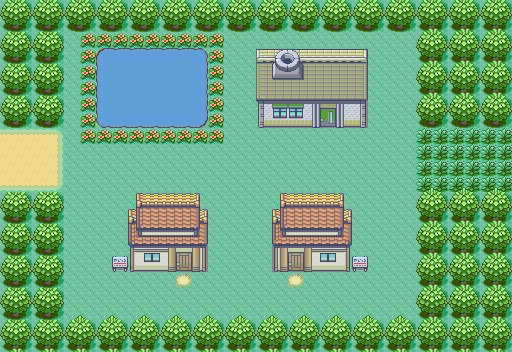
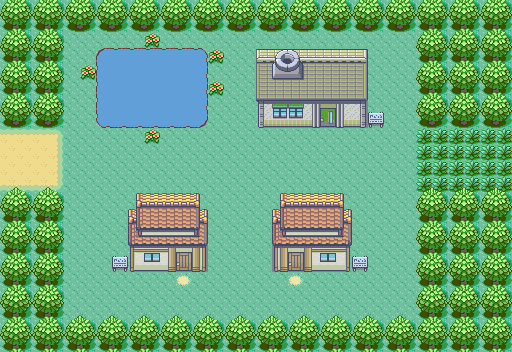
updated start map

diff --git a/data/walkables/start.html b/data/walkables/start.html
@@ -11,20 +11,20 @@
[32 lines of base64/hex data omitted]
@@ -43,32 +43,13 @@
[7 lines of base64/hex data omitted]
 <img id="ANM_0" src="img/animated_tiles/3287.gif">
 <img id="ANM_1" src="img/animated_tiles/3287.gif">
 <img id="ANM_2" src="img/animated_tiles/3287.gif">
 <img id="ANM_3" src="img/animated_tiles/3287.gif">
 <img id="ANM_4" src="img/animated_tiles/3287.gif">
-<img id="ANM_5" src="img/animated_tiles/3287.gif">
-<img id="ANM_6" src="img/animated_tiles/3287.gif">
-<img id="ANM_7" src="img/animated_tiles/3287.gif">
-<img id="ANM_8" src="img/animated_tiles/3287.gif">
-<img id="ANM_9" src="img/animated_tiles/3287.gif">
-<img id="ANM_10" src="img/animated_tiles/3287.gif">
-<img id="ANM_11" src="img/animated_tiles/3287.gif">
-<img id="ANM_12" src="img/animated_tiles/3287.gif">
-<img id="ANM_13" src="img/animated_tiles/3287.gif">
-<img id="ANM_14" src="img/animated_tiles/3287.gif">
-<img id="ANM_15" src="img/animated_tiles/3287.gif">
-<img id="ANM_16" src="img/animated_tiles/3287.gif">
-<img id="ANM_17" src="img/animated_tiles/3287.gif">
-<img id="ANM_18" src="img/animated_tiles/3287.gif">
-<img id="ANM_19" src="img/animated_tiles/3287.gif">
-<img id="ANM_20" src="img/animated_tiles/3287.gif">
-<img id="ANM_21" src="img/animated_tiles/3287.gif">
-<img id="ANM_22" src="img/animated_tiles/3287.gif">
-<img id="ANM_23" src="img/animated_tiles/3287.gif">
-<img id="ANM_24" src="img/animated_tiles/3287.gif">
-<img id="ANM_25" src="img/animated_tiles/3287.gif">
-<img id="ANM_26" src="img/animated_tiles/3287.gif">
-<img id="ANM_27" src="img/animated_tiles/3287.gif">
 <music hidden>route101</music>

diff --git a/data/walkables/start.css b/data/walkables/start.css
@@ -5,69 +5,50 @@
 #WLK_4{position:absolute; top: 48px; left: 320px; z-index: 10000;}
 #WLK_5{position:absolute; top: 48px; left: 336px; z-index: 10000;}
 #WLK_6{position:absolute; top: 48px; left: 352px; z-index: 10000;}
-#WLK_7{position:absolute; top: 176px; left: 416px; z-index: 10000;}
-#WLK_8{position:absolute; top: 176px; left: 432px; z-index: 10000;}
-#WLK_9{position:absolute; top: 176px; left: 448px; z-index: 10000;}
-#WLK_10{position:absolute; top: 176px; left: 464px; z-index: 10000;}
-#WLK_11{position:absolute; top: 176px; left: 480px; z-index: 10000;}
-#WLK_12{position:absolute; top: 176px; left: 496px; z-index: 10000;}
-#WLK_13{position:absolute; top: 192px; left: 128px; z-index: 10000;}
-#WLK_14{position:absolute; top: 192px; left: 144px; z-index: 10000;}
-#WLK_15{position:absolute; top: 192px; left: 160px; z-index: 10000;}
-#WLK_16{position:absolute; top: 192px; left: 176px; z-index: 10000;}
-#WLK_17{position:absolute; top: 192px; left: 192px; z-index: 10000;}
-#WLK_18{position:absolute; top: 192px; left: 272px; z-index: 10000;}
-#WLK_19{position:absolute; top: 192px; left: 288px; z-index: 10000;}
-#WLK_20{position:absolute; top: 192px; left: 304px; z-index: 10000;}
-#WLK_21{position:absolute; top: 192px; left: 320px; z-index: 10000;}
-#WLK_22{position:absolute; top: 192px; left: 336px; z-index: 10000;}
-#WLK_23{position:absolute; top: 304px; left: 64px; z-index: 10000;}
-#WLK_24{position:absolute; top: 304px; left: 80px; z-index: 10000;}
-#WLK_25{position:absolute; top: 304px; left: 96px; z-index: 10000;}
-#WLK_26{position:absolute; top: 304px; left: 112px; z-index: 10000;}
-#WLK_27{position:absolute; top: 304px; left: 128px; z-index: 10000;}
-#WLK_28{position:absolute; top: 304px; left: 144px; z-index: 10000;}
-#WLK_29{position:absolute; top: 304px; left: 160px; z-index: 10000;}
-#WLK_30{position:absolute; top: 304px; left: 176px; z-index: 10000;}
-#WLK_31{position:absolute; top: 304px; left: 192px; z-index: 10000;}
-#WLK_32{position:absolute; top: 304px; left: 208px; z-index: 10000;}
-#WLK_33{position:absolute; top: 304px; left: 224px; z-index: 10000;}
-#WLK_34{position:absolute; top: 304px; left: 240px; z-index: 10000;}
-#WLK_35{position:absolute; top: 304px; left: 256px; z-index: 10000;}
-#WLK_36{position:absolute; top: 304px; left: 272px; z-index: 10000;}
-#WLK_37{position:absolute; top: 304px; left: 288px; z-index: 10000;}
-#WLK_38{position:absolute; top: 304px; left: 304px; z-index: 10000;}
-#WLK_39{position:absolute; top: 304px; left: 320px; z-index: 10000;}
-#WLK_40{position:absolute; top: 304px; left: 336px; z-index: 10000;}
-#WLK_41{position:absolute; top: 304px; left: 352px; z-index: 10000;}
-#WLK_42{position:absolute; top: 304px; left: 368px; z-index: 10000;}
-#WLK_43{position:absolute; top: 304px; left: 384px; z-index: 10000;}
-#WLK_44{position:absolute; top: 304px; left: 400px; z-index: 10000;}
-#ANM_0{position:absolute; top: 32px; left: 80px; z-index: 1;}
-#ANM_1{position:absolute; top: 32px; left: 96px; z-index: 1;}
-#ANM_2{position:absolute; top: 32px; left: 112px; z-index: 1;}
-#ANM_3{position:absolute; top: 32px; left: 128px; z-index: 1;}
-#ANM_4{position:absolute; top: 32px; left: 144px; z-index: 1;}
-#ANM_5{position:absolute; top: 32px; left: 160px; z-index: 1;}
-#ANM_6{position:absolute; top: 32px; left: 176px; z-index: 1;}
-#ANM_7{position:absolute; top: 32px; left: 192px; z-index: 1;}
-#ANM_8{position:absolute; top: 32px; left: 208px; z-index: 1;}
-#ANM_9{position:absolute; top: 48px; left: 80px; z-index: 1;}
-#ANM_10{position:absolute; top: 48px; left: 208px; z-index: 1;}
-#ANM_11{position:absolute; top: 64px; left: 80px; z-index: 1;}
-#ANM_12{position:absolute; top: 64px; left: 208px; z-index: 1;}
-#ANM_13{position:absolute; top: 80px; left: 80px; z-index: 1;}
-#ANM_14{position:absolute; top: 80px; left: 208px; z-index: 1;}
-#ANM_15{position:absolute; top: 96px; left: 80px; z-index: 1;}
-#ANM_16{position:absolute; top: 96px; left: 208px; z-index: 1;}
-#ANM_17{position:absolute; top: 112px; left: 80px; z-index: 1;}
-#ANM_18{position:absolute; top: 112px; left: 208px; z-index: 1;}
-#ANM_19{position:absolute; top: 128px; left: 80px; z-index: 1;}
-#ANM_20{position:absolute; top: 128px; left: 96px; z-index: 1;}
-#ANM_21{position:absolute; top: 128px; left: 112px; z-index: 1;}
-#ANM_22{position:absolute; top: 128px; left: 128px; z-index: 1;}
-#ANM_23{position:absolute; top: 128px; left: 144px; z-index: 1;}
-#ANM_24{position:absolute; top: 128px; left: 160px; z-index: 1;}
-#ANM_25{position:absolute; top: 128px; left: 176px; z-index: 1;}
-#ANM_26{position:absolute; top: 128px; left: 192px; z-index: 1;}
-#ANM_27{position:absolute; top: 128px; left: 208px; z-index: 1;}
+#WLK_7{position:absolute; top: 176px; left: 0px; z-index: 10000;}
+#WLK_8{position:absolute; top: 176px; left: 16px; z-index: 10000;}
+#WLK_9{position:absolute; top: 176px; left: 32px; z-index: 10000;}
+#WLK_10{position:absolute; top: 176px; left: 48px; z-index: 10000;}
+#WLK_11{position:absolute; top: 176px; left: 416px; z-index: 10000;}
+#WLK_12{position:absolute; top: 176px; left: 432px; z-index: 10000;}
+#WLK_13{position:absolute; top: 176px; left: 448px; z-index: 10000;}
+#WLK_14{position:absolute; top: 176px; left: 464px; z-index: 10000;}
+#WLK_15{position:absolute; top: 176px; left: 480px; z-index: 10000;}
+#WLK_16{position:absolute; top: 176px; left: 496px; z-index: 10000;}
+#WLK_17{position:absolute; top: 192px; left: 128px; z-index: 10000;}
+#WLK_18{position:absolute; top: 192px; left: 144px; z-index: 10000;}
+#WLK_19{position:absolute; top: 192px; left: 160px; z-index: 10000;}
+#WLK_20{position:absolute; top: 192px; left: 176px; z-index: 10000;}
+#WLK_21{position:absolute; top: 192px; left: 192px; z-index: 10000;}
+#WLK_22{position:absolute; top: 192px; left: 272px; z-index: 10000;}
+#WLK_23{position:absolute; top: 192px; left: 288px; z-index: 10000;}
+#WLK_24{position:absolute; top: 192px; left: 304px; z-index: 10000;}
+#WLK_25{position:absolute; top: 192px; left: 320px; z-index: 10000;}
+#WLK_26{position:absolute; top: 192px; left: 336px; z-index: 10000;}
+#WLK_27{position:absolute; top: 304px; left: 64px; z-index: 10000;}
+#WLK_28{position:absolute; top: 304px; left: 80px; z-index: 10000;}
+#WLK_29{position:absolute; top: 304px; left: 96px; z-index: 10000;}
+#WLK_30{position:absolute; top: 304px; left: 112px; z-index: 10000;}
+#WLK_31{position:absolute; top: 304px; left: 128px; z-index: 10000;}
+#WLK_32{position:absolute; top: 304px; left: 144px; z-index: 10000;}
+#WLK_33{position:absolute; top: 304px; left: 160px; z-index: 10000;}
+#WLK_34{position:absolute; top: 304px; left: 176px; z-index: 10000;}
+#WLK_35{position:absolute; top: 304px; left: 192px; z-index: 10000;}
+#WLK_36{position:absolute; top: 304px; left: 208px; z-index: 10000;}
+#WLK_37{position:absolute; top: 304px; left: 224px; z-index: 10000;}
+#WLK_38{position:absolute; top: 304px; left: 240px; z-index: 10000;}
+#WLK_39{position:absolute; top: 304px; left: 256px; z-index: 10000;}
+#WLK_40{position:absolute; top: 304px; left: 272px; z-index: 10000;}
+#WLK_41{position:absolute; top: 304px; left: 288px; z-index: 10000;}
+#WLK_42{position:absolute; top: 304px; left: 304px; z-index: 10000;}
+#WLK_43{position:absolute; top: 304px; left: 320px; z-index: 10000;}
+#WLK_44{position:absolute; top: 304px; left: 336px; z-index: 10000;}
+#WLK_45{position:absolute; top: 304px; left: 352px; z-index: 10000;}
+#WLK_46{position:absolute; top: 304px; left: 368px; z-index: 10000;}
+#WLK_47{position:absolute; top: 304px; left: 384px; z-index: 10000;}
+#WLK_48{position:absolute; top: 304px; left: 400px; z-index: 10000;}
+#ANM_0{position:absolute; top: 32px; left: 144px; z-index: 1;}
+#ANM_1{position:absolute; top: 48px; left: 208px; z-index: 1;}
+#ANM_2{position:absolute; top: 64px; left: 80px; z-index: 1;}
+#ANM_3{position:absolute; top: 80px; left: 208px; z-index: 1;}
+#ANM_4{position:absolute; top: 128px; left: 144px; z-index: 1;}
